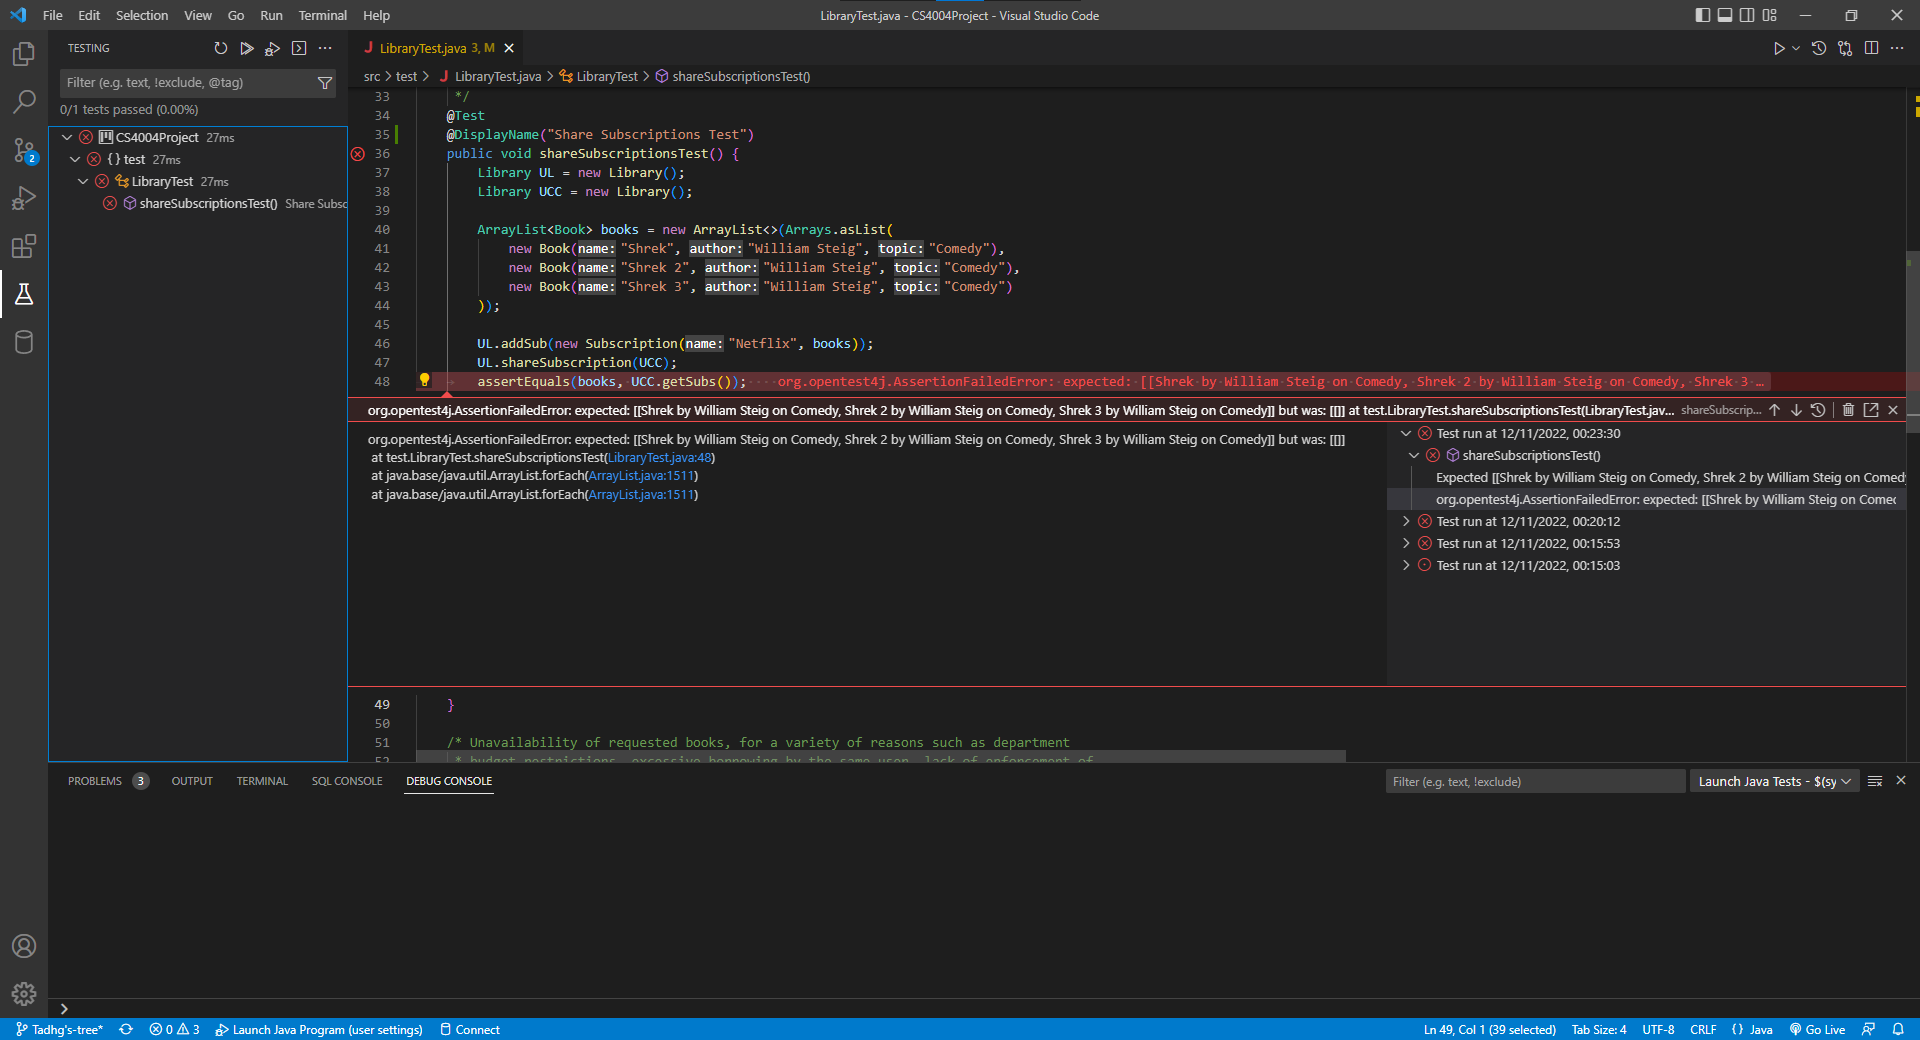
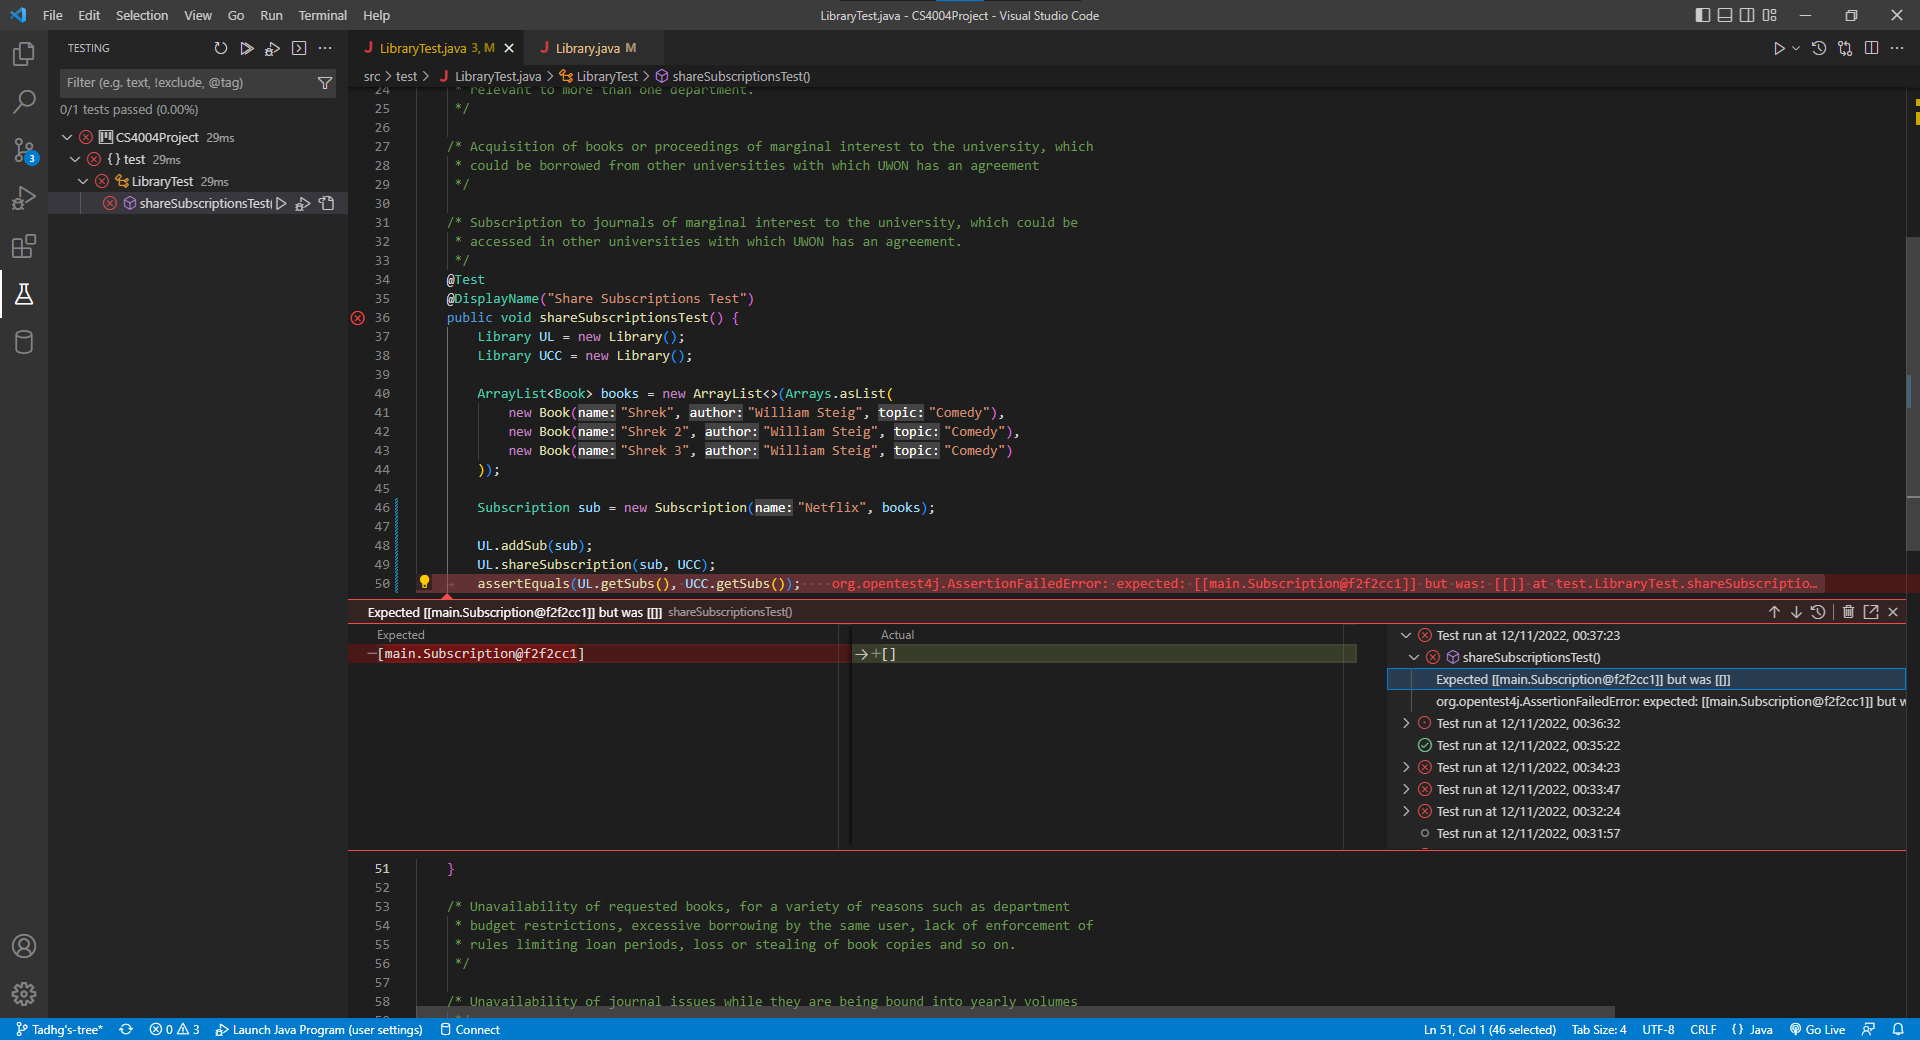
Made 3 tests and done a bit more work.

diff --git a/src/test/LibraryTest.java b/src/test/LibraryTest.java
@@ -6,11 +6,15 @@ import org.junit.jupiter.params.*;
 import org.junit.jupiter.params.provider.*;
 
 import main.Book;
+import main.Department;
 import main.Library;
+import main.Loan;
 import main.Subscription;
+import main.User;
 
 import static org.junit.jupiter.api.Assertions.*;
 
+import java.time.LocalDate;
 import java.util.ArrayList;
 import java.util.Arrays;
 
@@ -27,6 +31,22 @@ public class LibraryTest {
 	/* Acquisition of books or proceedings of marginal interest to the university, which
 	 * could be borrowed from other universities with which UWON has an agreement 
 	 */
+	@Test
+	@DisplayName("University sharing books Test")
+	public void shareBooksTest() {
+		Library UL = new Library();
+		Library UCC = new Library();
+
+		ArrayList<Book> books = new ArrayList<>(Arrays.asList(
+			new Book("Harry Potter and the Goblet of Fire", "J.K. Rowling", "Action"),
+			new Book("Harry Potter and the Philosopher's Stone", "J.K. Rowling", "Comedy"),
+			new Book("Harry Potter and the Chamber of Secrets", "J.K. Rowling", "Fantasy")
+		));
+
+		UL.setBooks(books);
+		UL.agreement(UCC);
+		assertEquals(UL.getBooks(), UCC.getBooks());
+	}
 	
 	/* Subscription to journals of marginal interest to the university, which could be
 	 * accessed in other universities with which UWON has an agreement.
@@ -43,9 +63,11 @@ public class LibraryTest {
 			new Book("Shrek 3", "William Steig", "Comedy")
 		));
 
-		UL.addSub(new Subscription("Netflix", books));
-		UL.shareSubscription(UCC);
-		assertEquals(books, UCC.getSubs());
+		Subscription sub = new Subscription("Netflix", books);
+
+		UL.addSub(sub);
+		UL.agreement(UCC);
+		assertEquals(UL.getSubs(), UCC.getSubs());
 	}
 
 	/* Unavailability of requested books, for a variety of reasons such as department
@@ -59,6 +81,28 @@ public class LibraryTest {
 	/* Lack of traceability to previous borrowers when books, proceedings or journal
 	 * volumes are found to be damaged 
 	 */
+	@Test
+	@DisplayName("Show History of Ownership Test")
+	public void traceabilityTest() {
+		Department CSIS = new Department();
+
+		User john = new User();
+		User milan = new User();
+		Book book = new Book("Mein Kampf", "Adolf Hitler", "Gospel");
+
+		CSIS.loan(book, LocalDate.now().minusDays(15), john);
+		CSIS.returnLoan(book, LocalDate.now().minusDays(10), john);
+
+		CSIS.loan(book, LocalDate.now().minusDays(5), milan);
+		CSIS.returnLoan(book, LocalDate.now(), milan);
+
+		ArrayList<Loan> expectedResults = new ArrayList<>(Arrays.asList(
+			new Loan(book, LocalDate.now().minusDays(15), john), 
+			new Loan(book, LocalDate.now().minusDays(5), milan)
+		));
+
+		assertTrue(expectedResults.toString().equals(CSIS.getHistoryOfBook(book).toString()));		
+	}
 
 	/* Inaccuracy of card indexes, e.g. a book is stated as being available whereas it is not
 	 * found at the appropriate place on the shelves.

diff --git a/src/main/Department.java b/src/main/Department.java
@@ -1,26 +1,31 @@
 package main;
 
+import java.time.LocalDate;
 import java.util.ArrayList;
 
 public class Department {
-	private ArrayList<Book> books;
 	private ArrayList<Loan> loans;
 	private ArrayList<User> users;
 	private ArrayList<Staff> staff;
 
 	public Department() {
-		this.books = new ArrayList<>();
-		this.loans = new ArrayList<>();
-		this.users = new ArrayList<>();
-		this.staff = new ArrayList<>();
+		loans = new ArrayList<>();
+		users = new ArrayList<>();
+		staff = new ArrayList<>();
 	}
 
-	public ArrayList<Book> getBooks() {
-		return books;
+	public boolean loan(Book book, LocalDate date, User user) {
+		Loan loan = new Loan(book, date, user);
+		if (loans.contains(loan)) return false;
+		book.loan(loan);
+		loans.add(loan);
+		return true;
 	}
-
-	public void setBooks(ArrayList<Book> books) {
-		this.books = books;
+	public boolean returnLoan(Book book, LocalDate date, User user) {
+		return loans.remove(new Loan(book, date, user));
+	}
+	public ArrayList<Loan> getHistoryOfBook(Book book) {
+		return book.getHistory();
 	}
 
 	public ArrayList<Loan> getLoans() {
@@ -45,9 +50,5 @@ public class Department {
 
 	public void setStaff(ArrayList<Staff> staff) {
 		this.staff = staff;
-	}
-	
-	public void borrow(Department lib, Book book) {
-
 	}
 }

diff --git a/src/main/Library.java b/src/main/Library.java
@@ -6,11 +6,25 @@ public class Library {
 	private ArrayList<Department> deps;
 	private ArrayList<Subscription> subs;
 	private ArrayList<Library> libraries;
+	private ArrayList<Book> books;
+
 
 	public Library() {
 		deps = new ArrayList<>();
 		subs = new ArrayList<>();
 		libraries = new ArrayList<>();
+		books = new ArrayList<>();
+	}
+
+	public ArrayList<Book> getBooks() {
+		return books;
+	}
+
+	public void setBooks(ArrayList<Book> books) {
+		this.books = books;
+	}
+	public void addBook(Book book) {
+		books.add(book);
 	}
 
 	public ArrayList<Library> getLibraries() {
@@ -44,7 +58,11 @@ public class Library {
 		this.deps = deps;
 	}
 
-	public void shareSubscription(Library lib) {
+	public void addDepartment(Department dep) {
+		deps.add(dep);
+	}
+
+	public void agreement(Library lib) {
 
 	}
 }

diff --git a/src/main/Loan.java b/src/main/Loan.java
@@ -5,10 +5,21 @@ import java.time.LocalDate;
 public class Loan {
 	private Book book;
 	private LocalDate dateOfLoan;
+	private User user;
 	
-	public Loan(Book book, LocalDate dateOfLoan) {
+	
+	public Loan(Book book, LocalDate dateOfLoan, User user) {
 		this.book = book;
 		this.dateOfLoan = dateOfLoan;
+		this.user = user;
+	}
+	
+	public User getUser() {
+		return user;
+	}
+
+	public void setUser(User user) {
+		this.user = user;
 	}
 
 	public Book getBook() {
@@ -25,5 +36,10 @@ public class Loan {
 
 	public void setDateOfLoan(LocalDate dateOfLoan) {
 		this.dateOfLoan = dateOfLoan;
+	}
+
+	@Override
+	public String toString() {
+		return String.format("%s was taken by %s at %s", book, user, dateOfLoan);
 	}
 }

diff --git a/src/main/Book.java b/src/main/Book.java
@@ -1,17 +1,28 @@
 package main;
 
+import java.util.ArrayList;
+
 public class Book {
 	private static int idIndicator;
 	private int id;
 	private String name;
 	private String author;
 	private String topic;
+	private ArrayList<Loan> historyOfLoans;
 	
 	public Book(String name, String author, String topic) {
 		this.id = idIndicator++;
 		this.name = name;
 		this.author = author;
 		this.topic = topic;
+		historyOfLoans = new ArrayList<>();
+	}
+
+	public void loan(Loan loan) {
+		historyOfLoans.add(loan);
+	}
+	public ArrayList<Loan> getHistory() {
+		return historyOfLoans;
 	}
 
 	public int getId() {

diff --git a/src/main/Person.java b/src/main/Person.java
@@ -1,10 +1,11 @@
 package main;
 
 public class Person {
+	private static int idIdentifier;
 	private int id;
 	
-	public Person(int id) {
-		this.id = id;
+	public Person() {
+		this.id = idIdentifier++;
 	}
 
 	public int getId() {
@@ -13,5 +14,10 @@ public class Person {
 
 	public void setId(int id) {
 		this.id = id;
+	}
+
+	@Override
+	public String toString() {
+		return String.format("%d", id);
 	}
 }

diff --git a/src/main/Subscription.java b/src/main/Subscription.java
@@ -26,4 +26,13 @@ public class Subscription {
 	public void setBooks(ArrayList<Book> books) {
 		this.books = books;
 	}
+
+	@Override
+	public String toString() {
+		StringBuilder returnString = new StringBuilder(name + ": ");
+		books.forEach(book -> {
+			returnString.append(book + ", ");
+		});
+		return returnString.delete(returnString.length()-2, returnString.length()).toString();
+	}
 }

diff --git a/src/main/Staff.java b/src/main/Staff.java
@@ -2,8 +2,8 @@ package main;
 
 public class Staff extends Person {
 
-	public Staff(int id) {
-		super(id);
+	public Staff() {
+		super();
 	}
 
 }

diff --git a/src/main/User.java b/src/main/User.java
@@ -2,8 +2,8 @@ package main;
 
 public class User extends Person {
 
-	public User(int id) {
-		super(id);
+	public User() {
+		super();
 	}
 
 }
